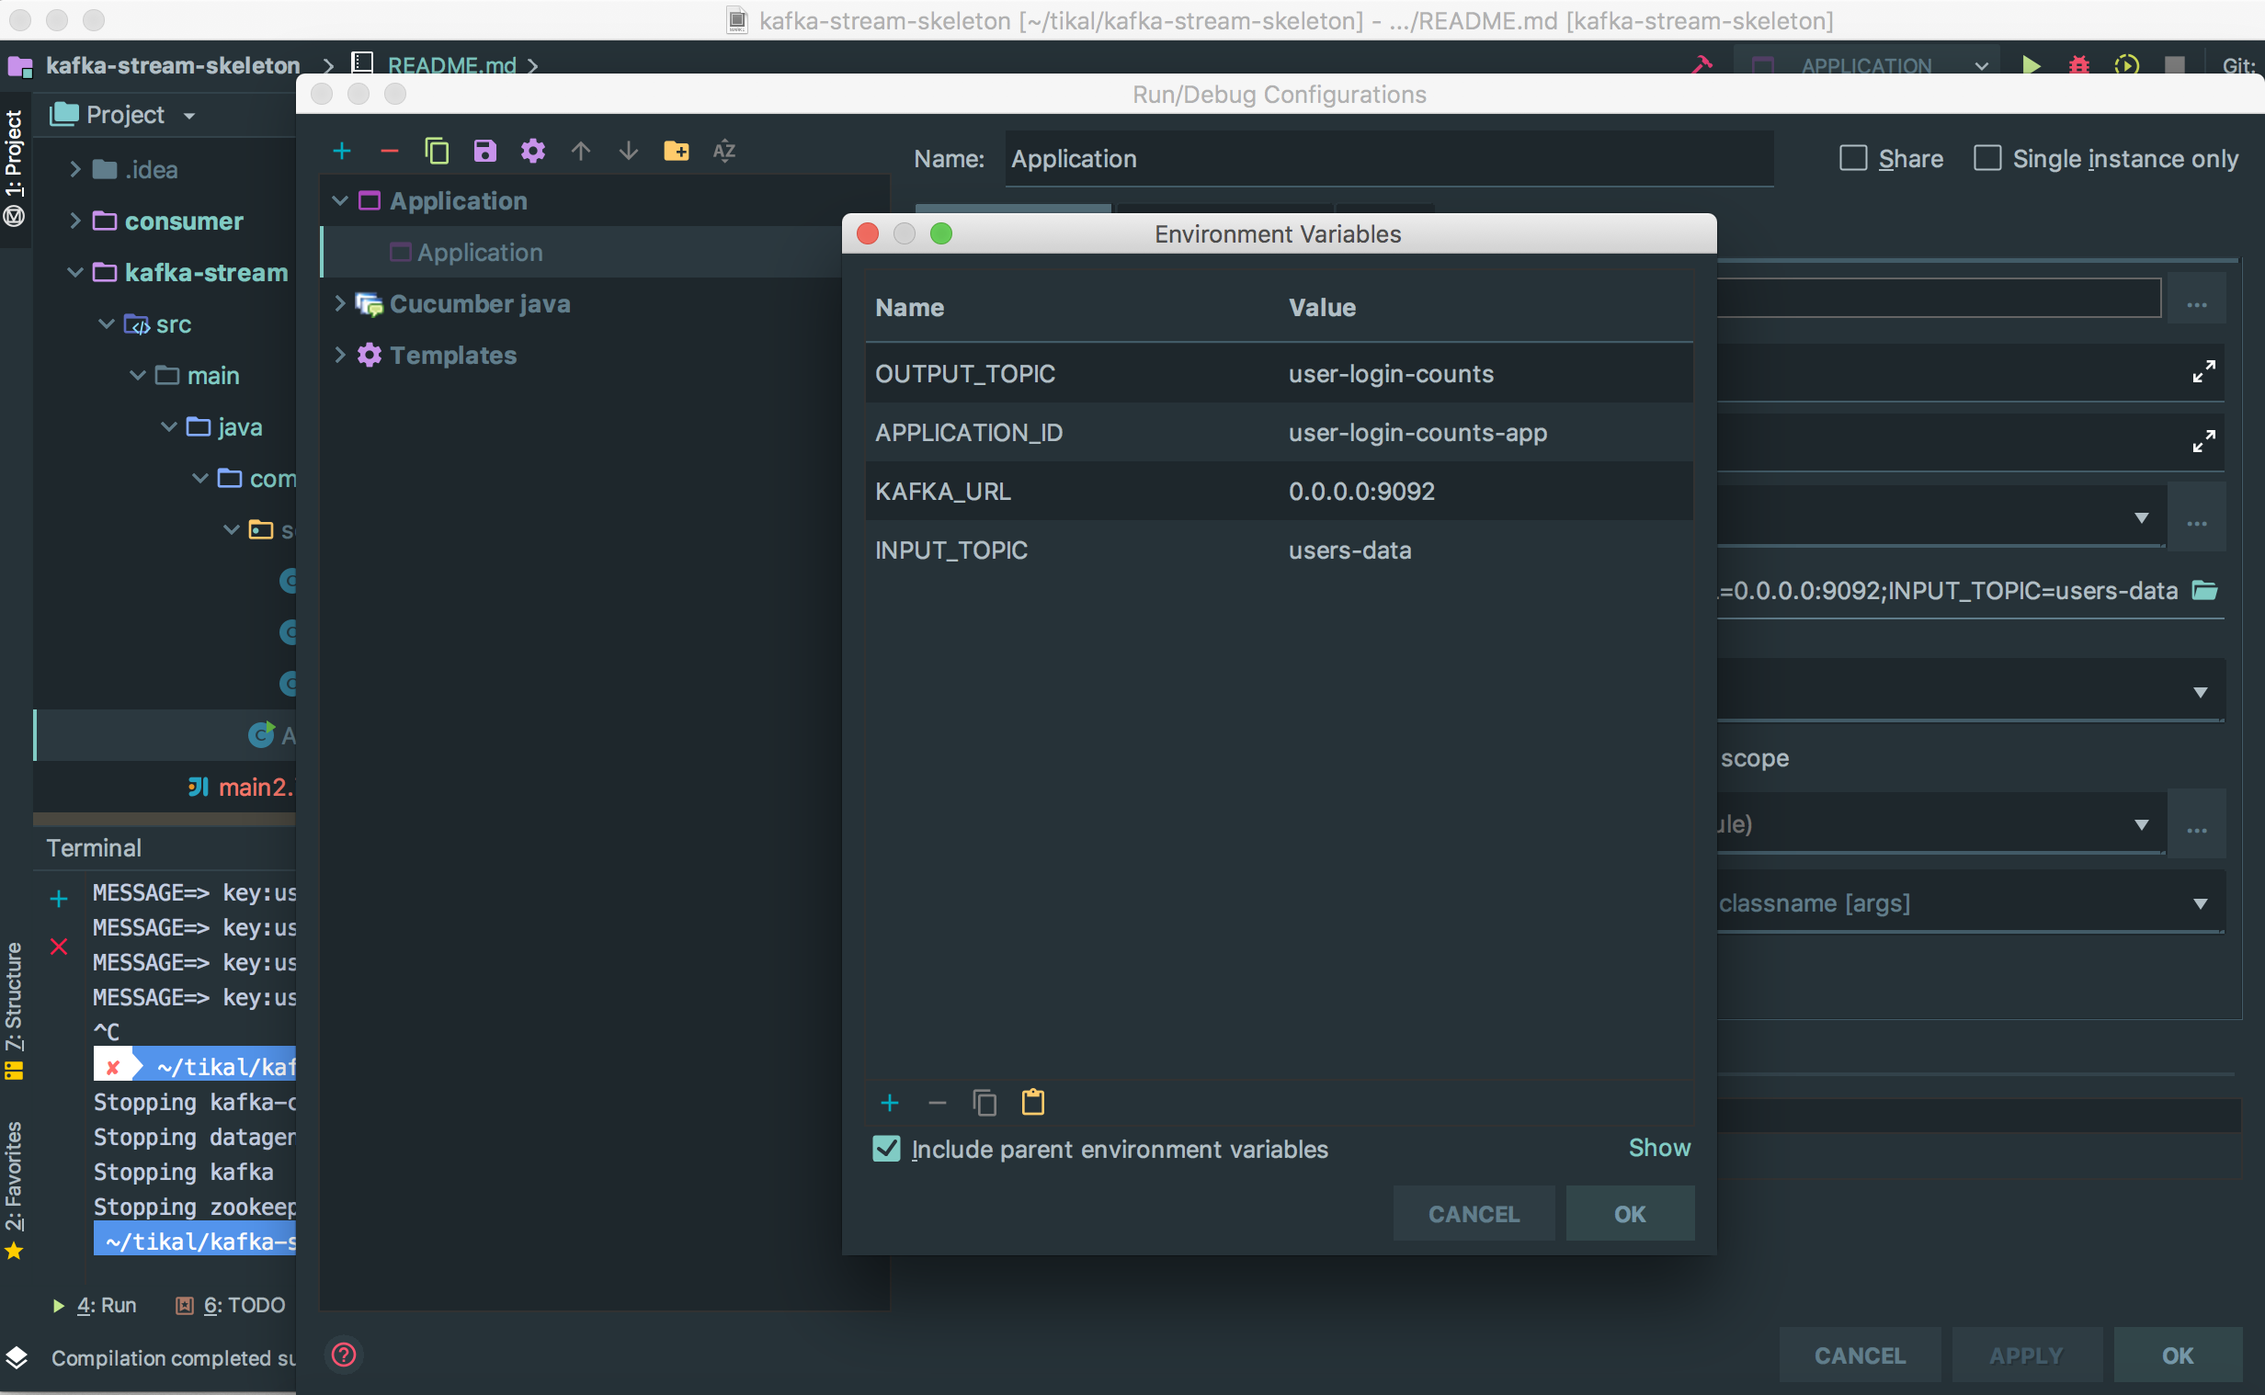
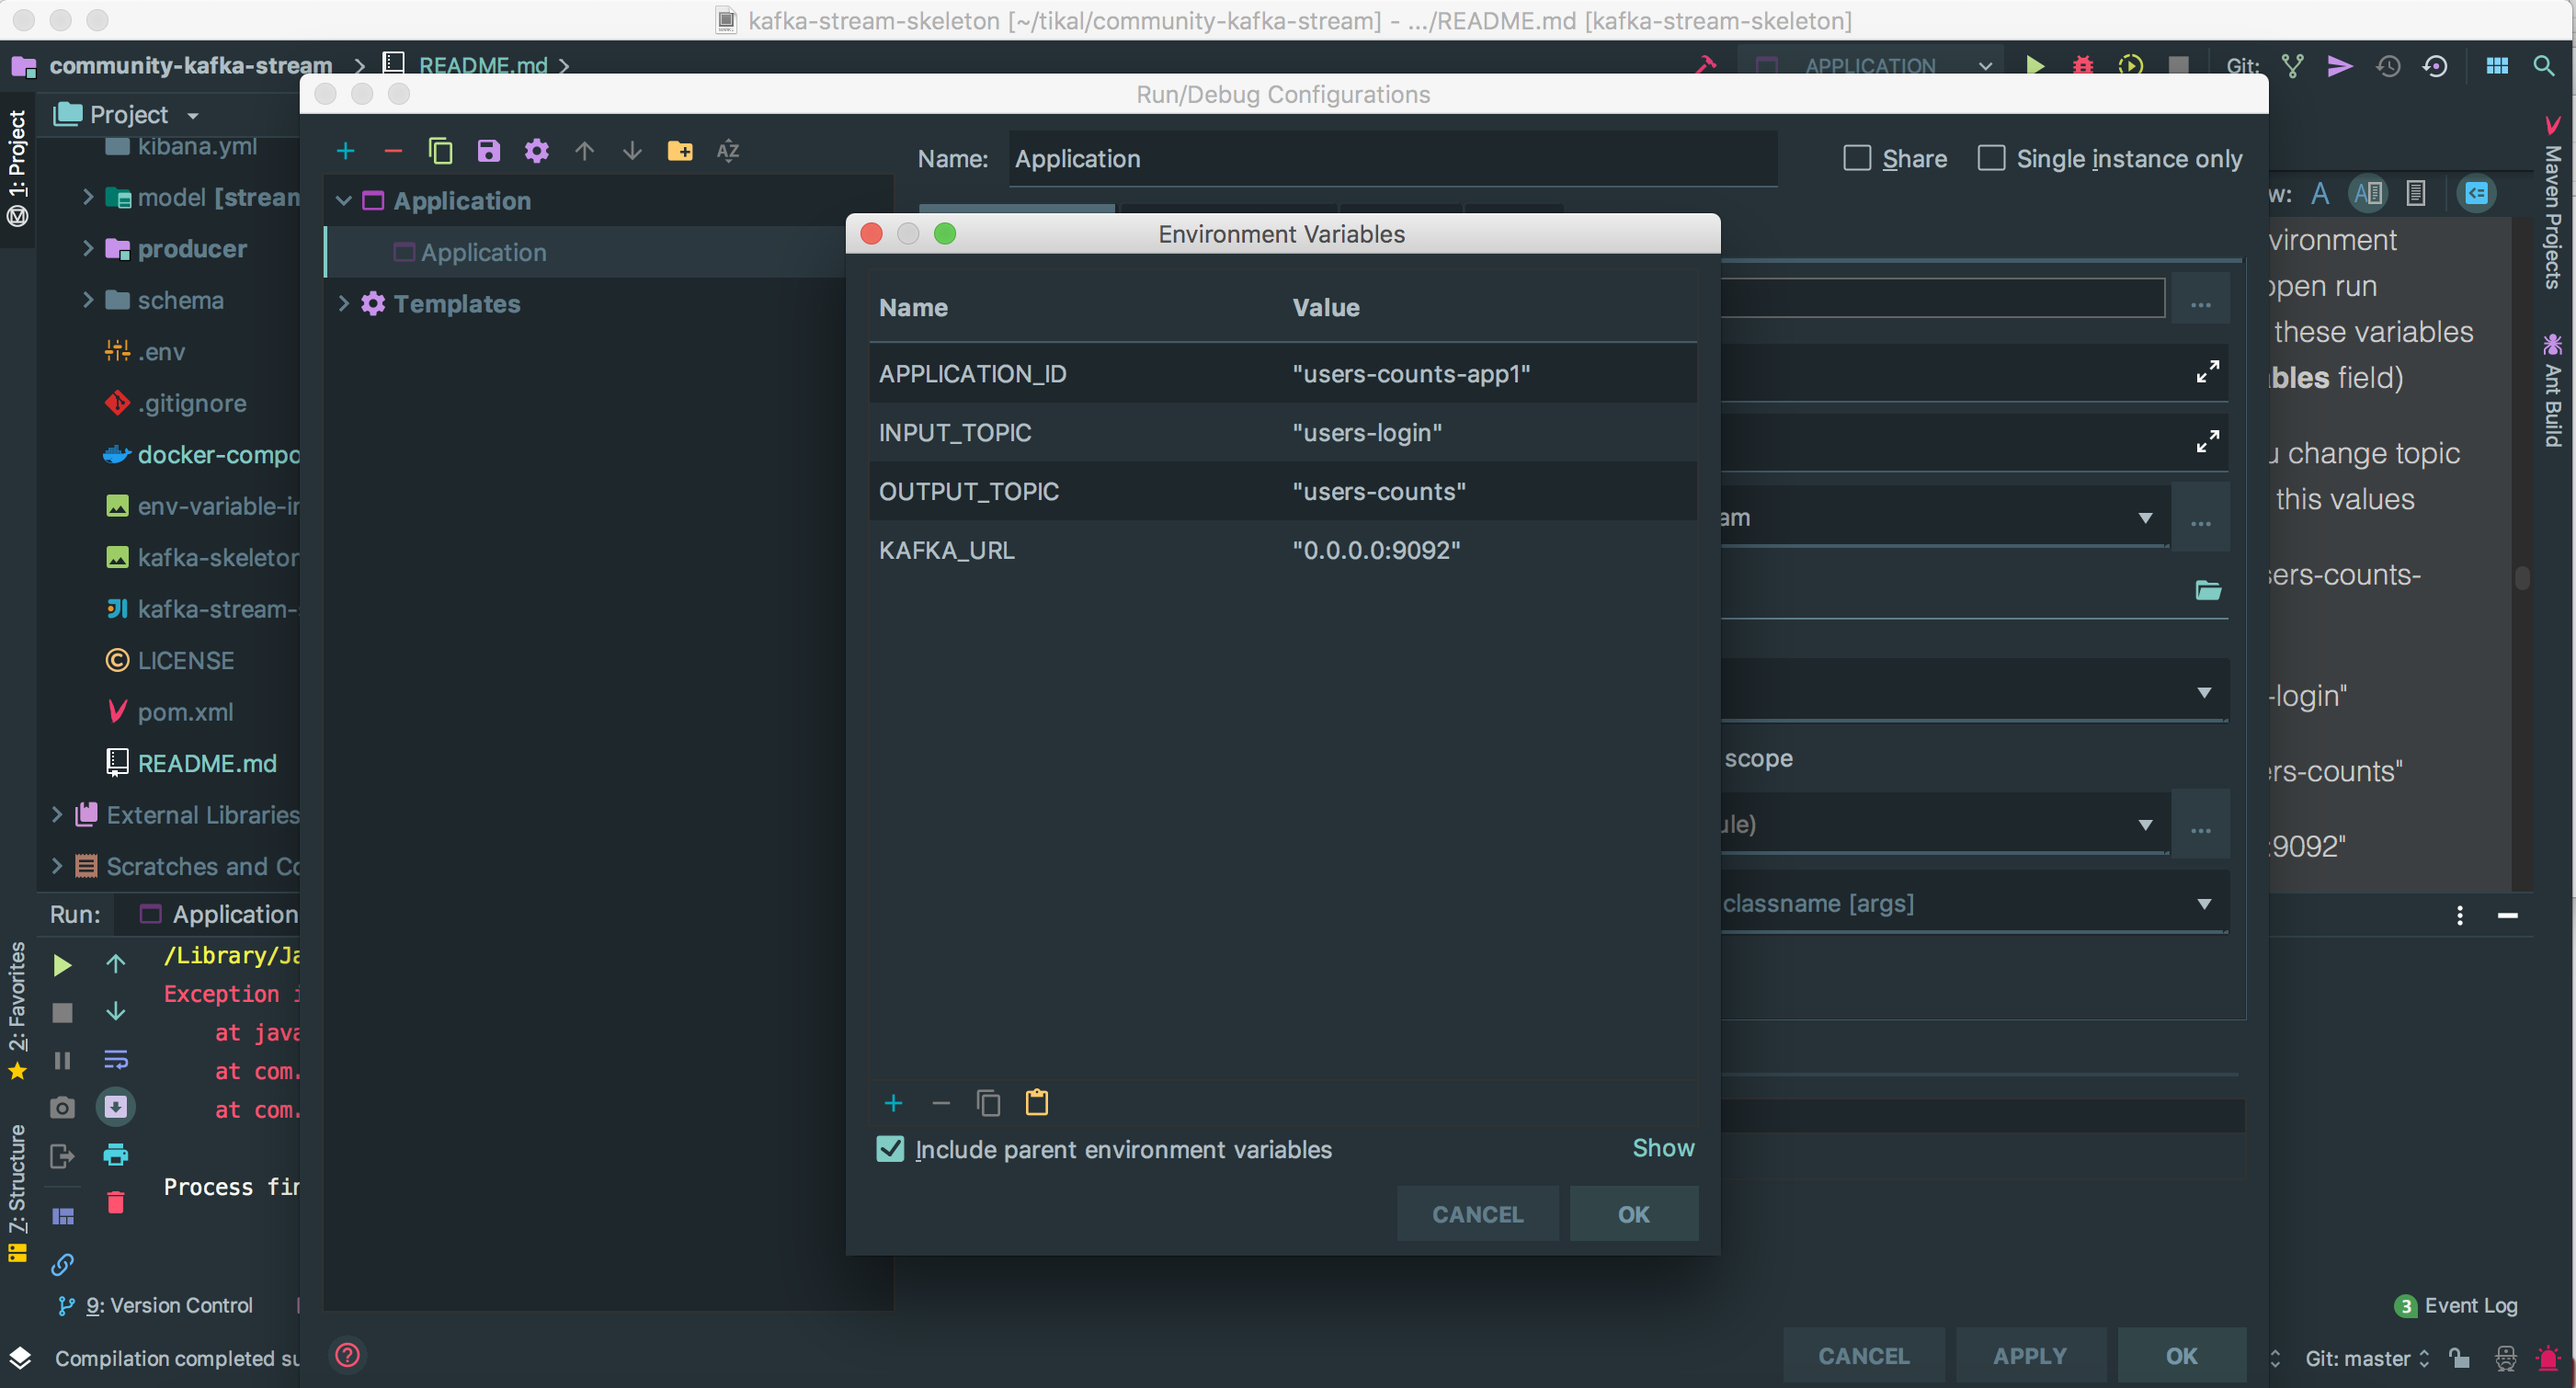
fix IDE topic configurations

diff --git a/README.md b/README.md
@@ -210,11 +210,11 @@ docker-compose sets these values when running the container using docker. Howeve
 
 By default, (unless you change topic names and ports), set this values
 
-APPLICATION_ID="user-login-counts-app" 
+APPLICATION_ID="users-counts-app1" 
 
-INPUT_TOPIC="users-data" 
+INPUT_TOPIC="users-login" 
 
-OUTPUT_TOPIC="user-login-counts" 
+OUTPUT_TOPIC="users-counts" 
 
 KAFKA_URL="0.0.0.0:9092"
 
